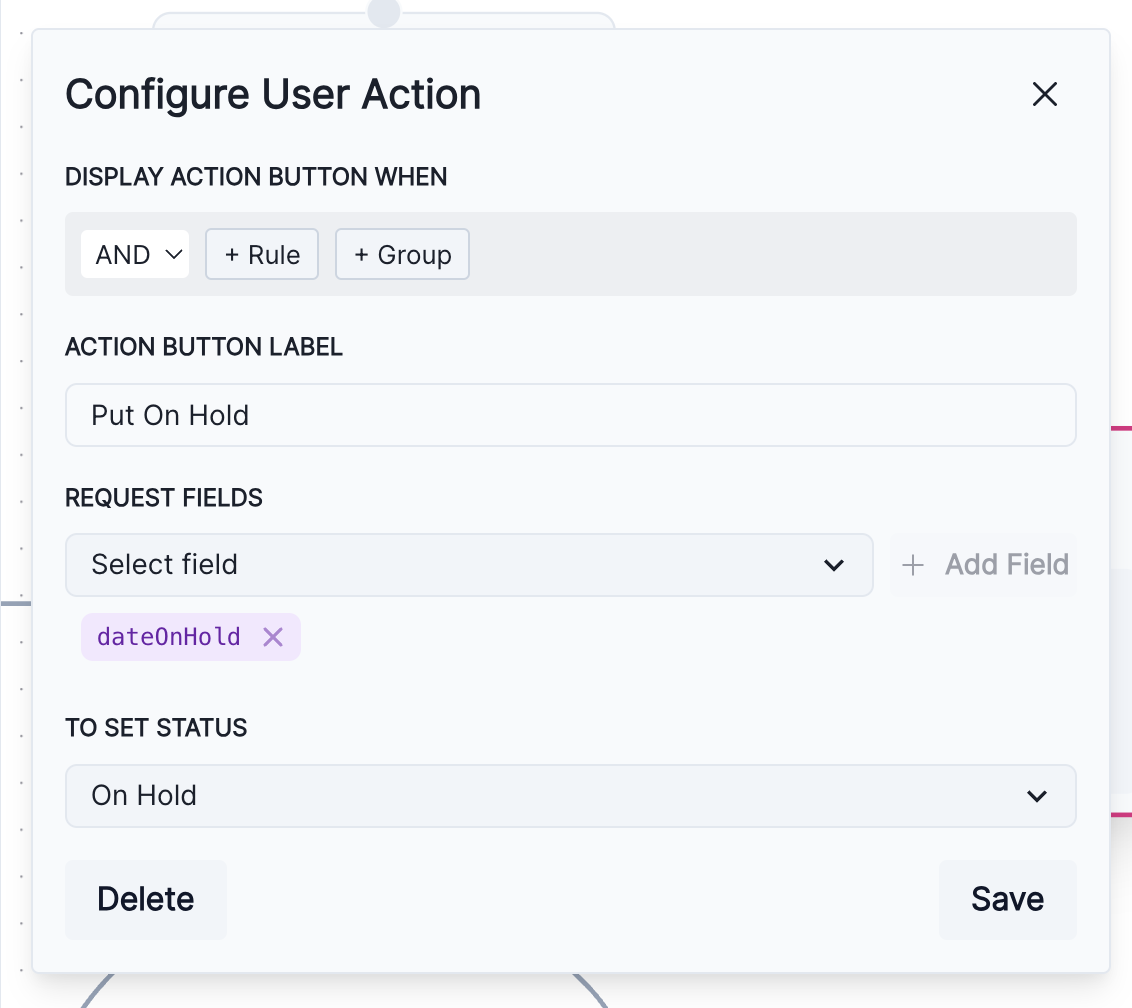
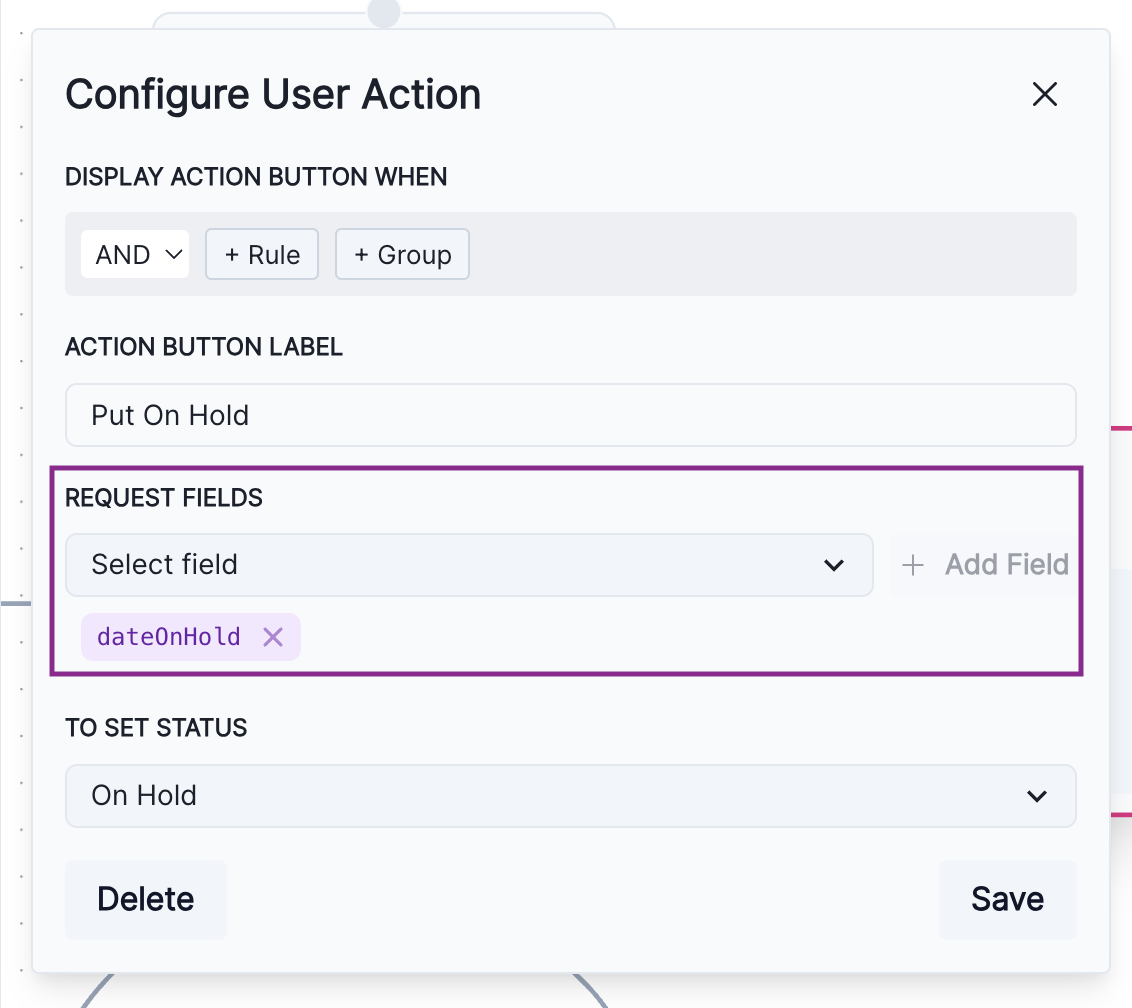
Adjusted the deletion steps & annotated Request fields image

Changed region(s): [[0.0309, 0.4613, 0.9585, 0.6766]]

diff --git a/site/_site/guide/set-up-model-workflows.html b/site/_site/guide/set-up-model-workflows.html
@@ -6,7 +6,7 @@
 
 <meta name="viewport" content="width=device-width, initial-scale=1.0, user-scalable=yes">
 
-<meta name="dcterms.date" content="2024-05-31">
+<meta name="dcterms.date" content="2024-06-03">
 
 <title>ValidMind – Set up model workflows</title>
 <style>
@@ -516,7 +516,7 @@ cookieconsent.run({
     <div>
     <div class="quarto-title-meta-heading">Published</div>
     <div class="quarto-title-meta-contents">
-      <p class="date">May 31, 2024</p>
+      <p class="date">June 3, 2024</p>
     </div>
   </div>
   
@@ -675,7 +675,7 @@ Example
 <h4 class="anchored" data-anchor-id="approval">Approval</h4>
 <ul>
 <li>When your resource reaches the approval step, users in the selected Approval Group will receive your configured message.</li>
-<li>Requires a User type <a href="../guide/manage-inventory-custom-fields.html">custom field</a> to select from, and must be connected to both an approval and rejection <strong><a href="#status-change">Status Change</a></strong> step.</li>
+<li>Requires a <strong>User</strong> type <a href="../guide/manage-inventory-custom-fields.html">custom field</a> to select from, and must be connected to both an approval and rejection <strong><a href="#status-change">Status Change</a></strong> step.</li>
 </ul>
 <div class="callout callout-style-simple callout-none no-icon">
 <div class="callout-body d-flex">
@@ -779,7 +779,7 @@ Example
 <p>To initiate the beginning of your workflow:</p>
 <ol type="1">
 <li><p>Locate the <strong>Start</strong> of your workflow.</p></li>
-<li><p>Drag from the <strong>.</strong> at the bottom of <strong>Start</strong> to the top <strong><i class="fa-solid fa-circle" aria-label="circle"></i></strong> on the first step of your workflow.</p></li>
+<li><p>Drag from the period (<strong>.</strong>) at the bottom of <strong>Start</strong> to the top <strong><i class="fa-solid fa-circle" aria-label="circle"></i></strong> on the first step of your workflow.</p></li>
 </ol>
 <section id="link-steps-together" class="level3">
 <h3 class="anchored" data-anchor-id="link-steps-together">Link steps together</h3>
@@ -791,7 +791,7 @@ Example
 <li><p>When you are finished, click <strong>Save workflow</strong> to apply your changes.</p></li>
 </ol>
 <section id="link-approval-steps" class="level4">
-<h4 class="anchored" data-anchor-id="link-approval-steps">Link Approval steps</h4>
+<h4 class="anchored" data-anchor-id="link-approval-steps">Link approval steps</h4>
 <p><a href="#approval">Approval</a> steps need to be subsequently linked to both a Rejected and an Approval <a href="#status-change">Status Change</a> step:</p>
 <ol type="1">
 <li><p>First, <a href="#configure-workflow-steps">configure an <strong>Approval</strong> step</a>.</p></li>
@@ -810,22 +810,16 @@ Example
 <h2 class="anchored" data-anchor-id="delete-workflow-steps">Delete workflow steps</h2>
 <ol type="1">
 <li><p>Hover over the step until the <strong><i class="fa-solid fa-ellipsis-vertical" aria-label="ellipsis-vertical"></i></strong> menu appears, then click on it.</p></li>
-<li><p>Select <strong><i class="fa-solid fa-gear" aria-label="gear"></i> Delete</strong>:</p>
-<ul>
-<li>A confirmation dialogue will appear. Select <strong>OK</strong> to continue.</li>
-<li>The step will now be removed from the workflow.</li>
-</ul></li>
+<li><p>Select <strong><i class="fa-solid fa-gear" aria-label="gear"></i> Delete</strong>.</p>
+<p>On the confirmation dialogue that appears, select <strong>OK</strong> to confirm deletion.</p></li>
 <li><p>When you are finished, click <strong>Save workflow</strong> to apply your changes.</p></li>
 </ol>
 <section id="remove-links-between-steps" class="level3">
 <h3 class="anchored" data-anchor-id="remove-links-between-steps">Remove links between steps</h3>
 <ol type="1">
 <li><p>Hover over a connection until the <strong><i class="fa-solid fa-circle-xmark" aria-label="circle-xmark"></i></strong> appears.</p></li>
-<li><p>Click <strong><i class="fa-solid fa-circle-xmark" aria-label="circle-xmark"></i></strong> to delete the connection:</p>
-<ul>
-<li>A confirmation dialogue will appear. Select <strong>OK</strong> to continue.</li>
-<li>The connection will now be removed from the workflow.</li>
-</ul></li>
+<li><p>Click <strong><i class="fa-solid fa-circle-xmark" aria-label="circle-xmark"></i></strong> to delete the connection.</p>
+<p>On the confirmation dialogue that appears, select <strong>OK</strong> to confirm deletion.</p></li>
 <li><p>When you are finished, click <strong>Save workflow</strong> to apply your changes.</p></li>
 </ol>
 </section>

diff --git a/site/_site/guide/customize-resource-statuses.html b/site/_site/guide/customize-resource-statuses.html
@@ -6,7 +6,7 @@
 
 <meta name="viewport" content="width=device-width, initial-scale=1.0, user-scalable=yes">
 
-<meta name="dcterms.date" content="2024-05-31">
+<meta name="dcterms.date" content="2024-06-03">
 
 <title>ValidMind – Customize resource statuses</title>
 <style>
@@ -506,7 +506,7 @@ cookieconsent.run({
     <div>
     <div class="quarto-title-meta-heading">Published</div>
     <div class="quarto-title-meta-contents">
-      <p class="date">May 31, 2024</p>
+      <p class="date">June 3, 2024</p>
     </div>
   </div>
   
@@ -564,11 +564,8 @@ Deleting statuses already in use will cause your workflows to no longer function
 <li><p>In the left sidebar, click <a href="https://app.prod.validmind.ai/settings"><strong><i class="fa-solid fa-gear" aria-label="gear"></i> Settings</strong></a>.</p></li>
 <li><p>Under Workplace Settings, select <strong><i class="fa-solid fa-arrow-right-arrow-left" aria-label="arrow-right-arrow-left"></i> Statuses</strong>.</p></li>
 <li><p>Under available statuses, select the process you’d like to delete a status for.</p></li>
-<li><p>Hover over the status you’d like to delete, and click <strong><i class="fa-solid fa-trash-can" aria-label="trash-can"></i> Delete</strong>:</p>
-<ul>
-<li>A confirmation dialogue will appear. Select <strong>OK</strong> to continue.</li>
-<li>A toast will indicate that your status has been successfully deleted.</li>
-</ul></li>
+<li><p>Hover over the status you’d like to delete, and click <strong><i class="fa-solid fa-trash-can" aria-label="trash-can"></i> Delete</strong>.</p>
+<p>On the confirmation dialogue that appears, select <strong>OK</strong> to confirm deletion.</p></li>
 </ol>
 </section>
 <section id="whats-next" class="level2">

diff --git a/site/_site/guide/working-with-model-workflows.html b/site/_site/guide/working-with-model-workflows.html
@@ -663,7 +663,7 @@ window.Quarto = {
 <h2 class="anchored" data-anchor-id="whats-next">What’s next</h2>
 <div id="listing-model-workflows-listing" class="quarto-listing quarto-listing-container-grid">
 <div class="list grid quarto-listing-cols-3">
-<div class="g-col-1" data-index="0" data-listing-date-sort="1717186272000" data-listing-file-modified-sort="1717186272069" data-listing-date-modified-sort="NaN" data-listing-reading-time-sort="2" data-listing-word-count-sort="312">
+<div class="g-col-1" data-index="0" data-listing-date-sort="1717432526000" data-listing-file-modified-sort="1717432526065" data-listing-date-modified-sort="NaN" data-listing-reading-time-sort="2" data-listing-word-count-sort="297">
 <a href="../guide/customize-resource-statuses.html" class="quarto-grid-link">
 <div class="quarto-grid-item card h-100 card-left">
 <div class="card-body post-contents">
@@ -677,7 +677,7 @@ Statuses can be manipulated via workflow transitions and are used to track the p
 </div>
 </a>
 </div>
-<div class="g-col-1" data-index="1" data-listing-date-sort="1717195107000" data-listing-file-modified-sort="1717195107898" data-listing-date-modified-sort="NaN" data-listing-reading-time-sort="7" data-listing-word-count-sort="1261">
+<div class="g-col-1" data-index="1" data-listing-date-sort="1717432574000" data-listing-file-modified-sort="1717432574109" data-listing-date-modified-sort="NaN" data-listing-reading-time-sort="7" data-listing-word-count-sort="1236">
 <a href="../guide/set-up-model-workflows.html" class="quarto-grid-link">
 <div class="quarto-grid-item card h-100 card-left">
 <div class="card-body post-contents">
